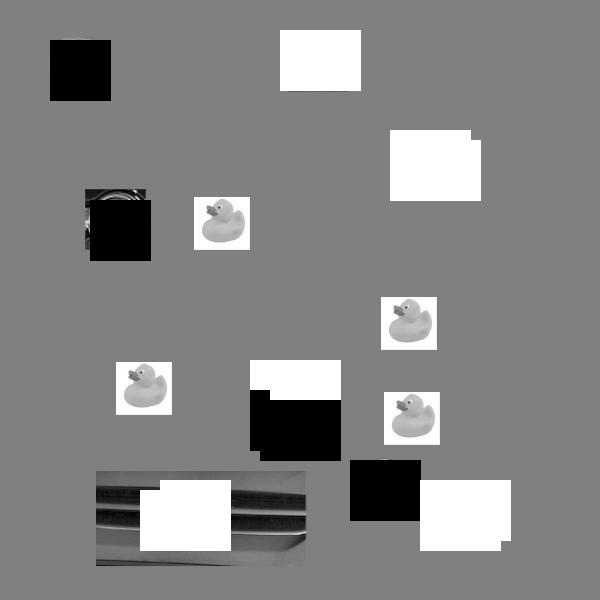
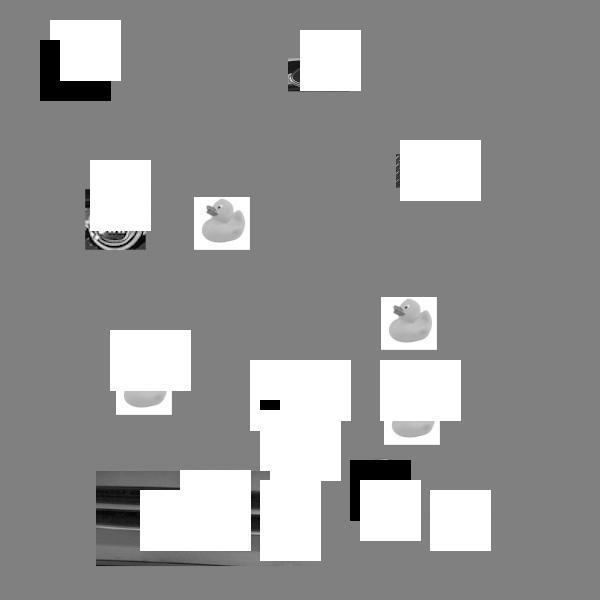
Added transformed images

diff --git a/main.py b/main.py
@@ -45,6 +45,7 @@ def convert_image(path):
     img.thumbnail((60, 60), Image.ANTIALIAS)
     return np.asarray(img)
 
+
 def load_image_dataset(path_dir):
     images = []
     labels = []
@@ -154,10 +155,10 @@ def test():
 
         prediction = model.predict(test_array)
 
-        if prediction[0][0] > 0.994:
+        if prediction[0][0] > 0.9999:
             windows_found.append((window, "black"))
             print("Found Fiat logo at", window, prediction[0][0])
-        if prediction[0][1] > 0.994:
+        if prediction[0][1] > 0.9999:
             windows_found.append((window, "white"))
             print("Found Ford logo at", window, prediction[0][1])
 
@@ -168,32 +169,36 @@ def test():
 
 def generate():
 
-    image_input_path = (
-        os.path.dirname(os.path.realpath(__file__)) + "/data/train/fiat_test.jpg"
-    )
+    images_path = os.path.dirname(os.path.realpath(__file__)) + "/data/train"
+    files = glob.glob(images_path + "/*.jpg")
 
-    image_output_path = (
-        os.path.dirname(os.path.realpath(__file__)) + "/data/train/fiat_test_output.jpg"
-    )
+    for file in files:
 
-    image_input = Image.open(image_input_path)
-
-    prospective = transform.ProjectiveTransform(
-        np.array(
-            [
-                [0.62796, -0.00625, 0.375],
-                [-0.13653, 0.71634, 8.375],
-                [-0.00447, -0.00021, 1],
-            ]
+        image_output_path = (
+            file.replace(".jpg", "")
+            + "_transform_right_"
+            + str(datetime.now().timestamp()).replace(".", "")
+            + ".jpg"
         )
-    )
-    projected = transform.warp(
-        image_input, prospective, output_shape=(70, 70), cval=0.5
-    )
-    scaled = transform.resize(projected, (65, 65))
-    cropped = scaled[0:60, 0:60]
 
-    io.imsave(image_output_path, cropped)
+        image_input = Image.open(file)
+
+        prospective = transform.ProjectiveTransform(
+            np.array(
+                [
+                    [0.62796, -0.00625, 0.375],
+                    [-0.13653, 0.71634, 8.375],
+                    [-0.00447, -0.00021, 1],
+                ]
+            )
+        )
+        projected = transform.warp(
+            image_input, prospective, output_shape=(70, 70), cval=0.5
+        )
+        scaled = transform.resize(projected, (65, 65))
+        cropped = scaled[0:60, 0:60]
+
+        io.imsave(image_output_path, cropped)
 
 
 if __name__ == "__main__":
